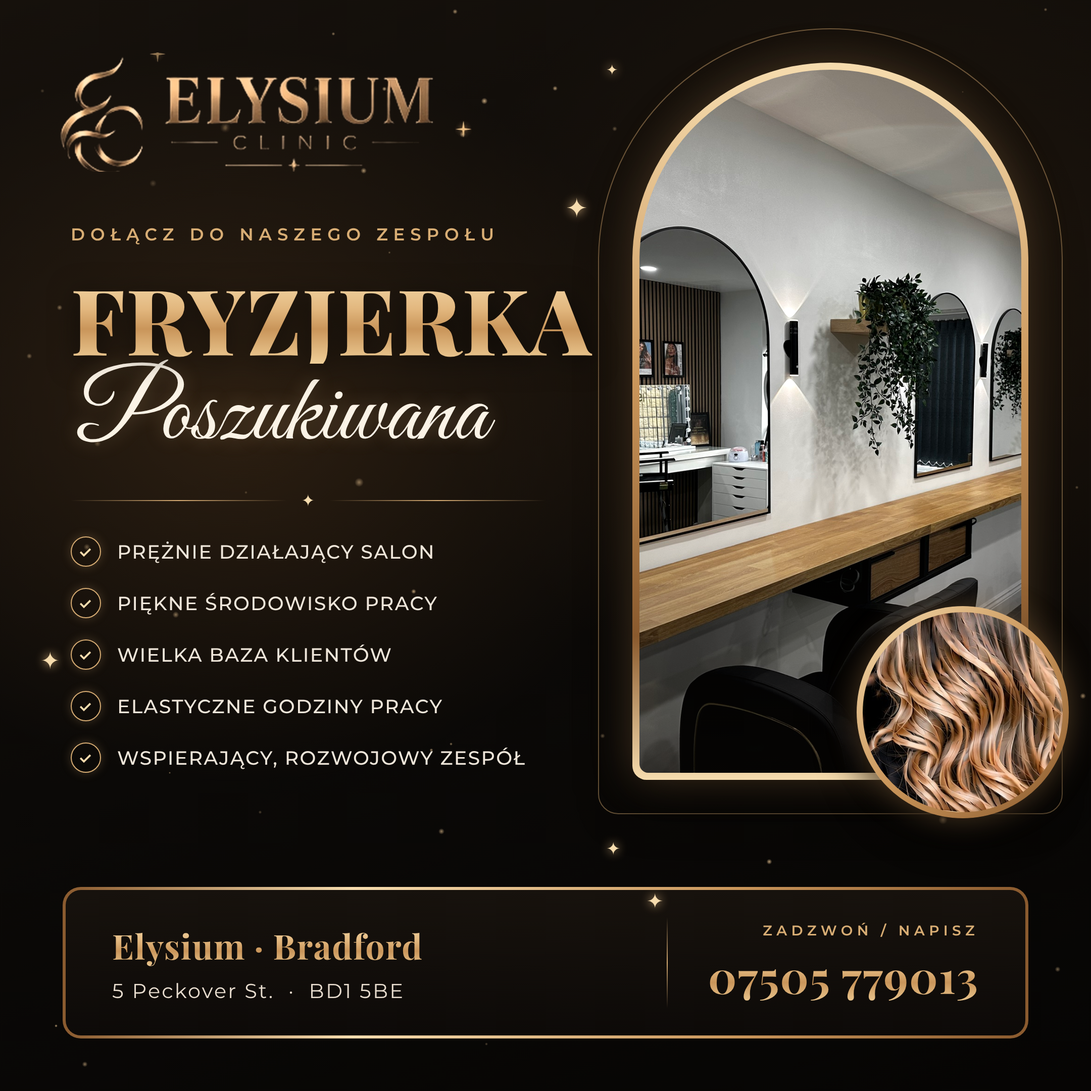
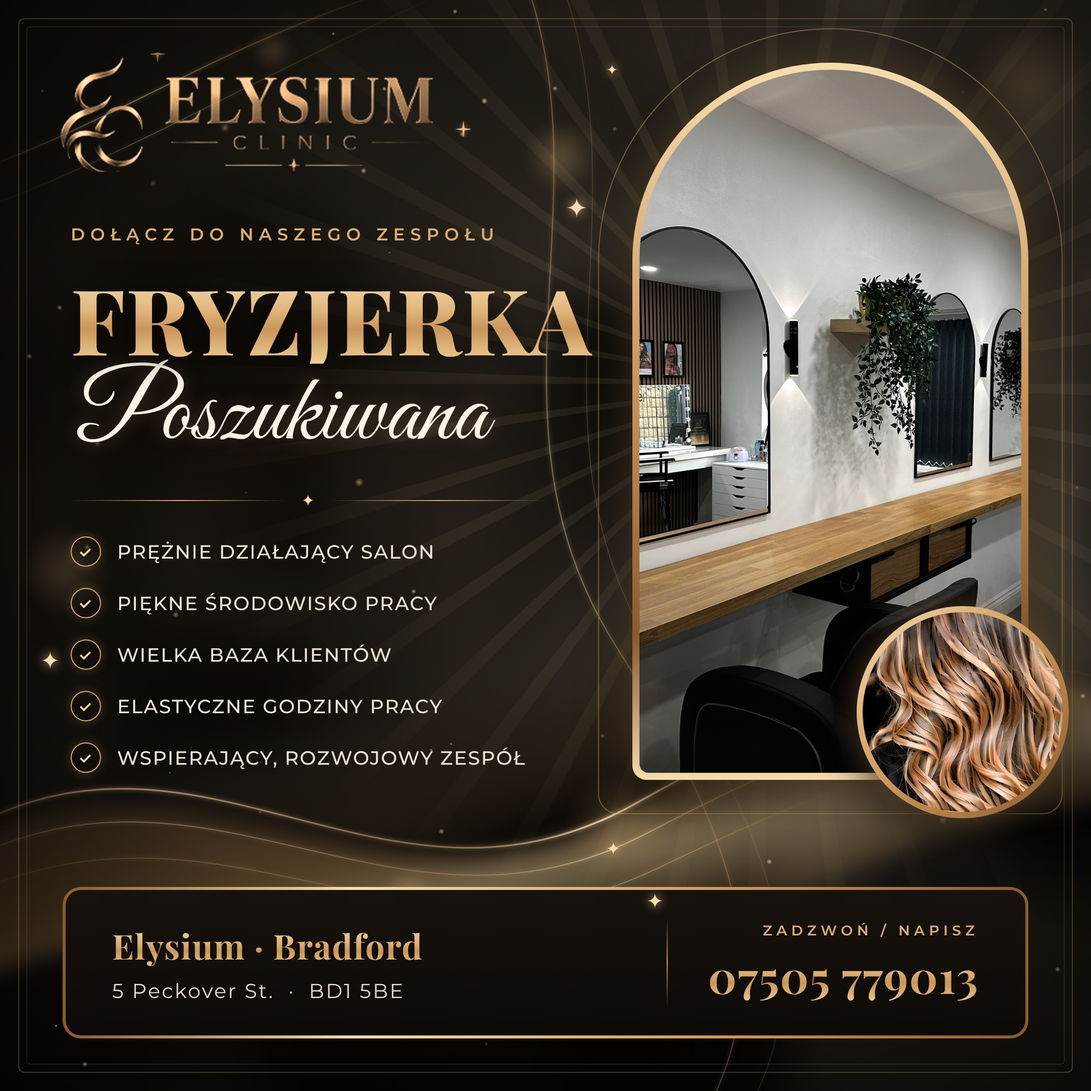
Richer background for Elysium hairdresser poster
Claude-Session: https://claude.ai/code/session_01SaUhS6TQiHZZVw3aAkmtTF

diff --git a/plakat_fryzjerka/poster.html b/plakat_fryzjerka/poster.html
@@ -11,6 +11,20 @@ html,body{width:1080px;height:1080px;background:#0b0907;overflow:hidden}
    radial-gradient(ellipse 700px 600px at 85% 30%, rgba(90,60,30,.22), transparent 70%),
    linear-gradient(160deg,#16110c 0%,#0b0907 55%,#060504 100%);
   font-family:Montserrat,sans-serif;color:#efe6da}
+
+.bg{position:absolute;inset:0;overflow:hidden}
+.bg .photo{position:absolute;inset:-60px;background:url(salon.jpg) 30% 50%/cover;filter:blur(26px) brightness(.42) sepia(.6) saturate(1.3);transform:scale(1.05)}
+.bg .tint{position:absolute;inset:0;background:
+  linear-gradient(90deg,rgba(8,6,4,.92) 0%,rgba(8,6,4,.72) 42%,rgba(8,6,4,.25) 100%),
+  radial-gradient(ellipse 520px 420px at 18% 42%,rgba(150,100,50,.22),transparent 70%)}
+.bg svg{position:absolute;inset:0}
+.bg .bokeh{position:absolute;border-radius:50%;filter:blur(6px);background:radial-gradient(circle,rgba(255,205,140,.55),rgba(255,190,120,.08) 60%,transparent 72%)}
+.bg .rays{position:absolute;left:758px;top:380px;width:1400px;height:1400px;margin:-700px 0 0 -700px;border-radius:50%;
+  background:repeating-conic-gradient(from 0deg,rgba(246,220,174,.10) 0deg 2deg,transparent 2deg 9deg);
+  -webkit-mask:radial-gradient(circle,#000 0,rgba(0,0,0,.6) 30%,transparent 62%);mask:radial-gradient(circle,#000 0,rgba(0,0,0,.6) 30%,transparent 62%)}
+.bg .vig{position:absolute;inset:0;background:radial-gradient(ellipse 85% 80% at 50% 45%,transparent 55%,rgba(0,0,0,.75) 100%)}
+.bg .deco{position:absolute;inset:18px;border:1px solid rgba(216,173,116,.28);border-radius:6px}
+.bg .deco::before{content:"";position:absolute;inset:7px;border:1px solid rgba(216,173,116,.12);border-radius:4px}
 .dust{position:absolute;border-radius:50%;background:radial-gradient(circle,rgba(255,215,160,.9),rgba(255,200,140,0) 70%)}
 .spark{position:absolute;color:var(--gold1);font-size:22px;text-shadow:0 0 10px rgba(255,210,150,.9)}
 .goldtext{background:linear-gradient(180deg,var(--gold1) 0%,#e2b77e 40%,var(--gold2) 62%,#f0cf98 100%);
@@ -58,6 +72,39 @@ li b{flex:none;width:30px;height:30px;border-radius:50%;border:1.5px solid var(-
 .contact .num{font-family:'Playfair Display',serif;font-weight:700;font-size:44px;margin-top:6px;letter-spacing:.02em}
 </style></head>
 <body><div class="poster" id="p">
+<div class="bg">
+  <div class="photo"></div><div class="tint"></div>
+  <svg viewBox="0 0 1080 1080" width="1080" height="1080">
+    <defs>
+      <linearGradient id="g1" x1="0" y1="1" x2="1" y2="0">
+        <stop offset="0" stop-color="#8a5a2e" stop-opacity="0"/><stop offset=".35" stop-color="#f6dcae" stop-opacity=".9"/>
+        <stop offset=".6" stop-color="#c9955a" stop-opacity=".7"/><stop offset="1" stop-color="#8a5a2e" stop-opacity="0"/></linearGradient>
+      <linearGradient id="r1" x1="0" y1="0" x2="1" y2="1">
+        <stop offset="0" stop-color="#3a2614" stop-opacity="0"/><stop offset=".45" stop-color="#b9864e" stop-opacity=".35"/>
+        <stop offset=".55" stop-color="#f3d39e" stop-opacity=".45"/><stop offset=".7" stop-color="#6b4422" stop-opacity=".25"/><stop offset="1" stop-color="#3a2614" stop-opacity="0"/></linearGradient>
+      <filter id="glow"><feGaussianBlur stdDeviation="2.2" result="b"/><feMerge><feMergeNode in="b"/><feMergeNode in="SourceGraphic"/></feMerge></filter>
+      <filter id="soft"><feGaussianBlur stdDeviation="10"/></filter>
+    </defs>
+    <!-- silk ribbon -->
+    <g transform="translate(0,-55)"><path d="M-60 900 C 180 760, 360 1000, 620 860 S 980 700, 1160 760 L 1160 860 C 960 820, 820 960, 600 990 S 160 930, -60 1040 Z" fill="url(#r1)" filter="url(#soft)"/>
+    <g fill="none" stroke="url(#g1)" filter="url(#glow)">
+      <path d="M-40 880 C 200 740, 380 990, 630 850 S 990 690, 1140 740" stroke-width="1.6"/>
+      <path d="M-40 910 C 210 780, 390 1010, 640 880 S 990 730, 1140 780" stroke-width="1" opacity=".7"/>
+      <path d="M-40 945 C 220 820, 400 1035, 650 915 S 990 775, 1140 820" stroke-width=".7" opacity=".5"/>
+      </g></g><g fill="none" stroke="url(#g1)" filter="url(#glow)"><path d="M-40 175 C 120 120, 220 40, 420 -20" stroke-width="1.2" opacity=".55"/>
+      <path d="M-40 215 C 140 150, 260 70, 470 -20" stroke-width=".7" opacity=".4"/>
+    <path d="M520 -20 C 600 200, 470 420, 610 640 S 760 980, 700 1100" stroke-width="1.1" opacity=".45"/>
+    <path d="M555 -20 C 640 210, 510 430, 650 650 S 800 990, 740 1100" stroke-width=".6" opacity=".3"/>
+    </g>
+  </svg>
+  <div class="bokeh" style="left:520px;top:120px;width:70px;height:70px;opacity:.5"></div>
+  <div class="bokeh" style="left:560px;top:760px;width:110px;height:110px;opacity:.35"></div>
+  <div class="bokeh" style="left:20px;top:520px;width:90px;height:90px;opacity:.3"></div>
+  <div class="bokeh" style="left:960px;top:20px;width:120px;height:120px;opacity:.35"></div>
+  <div class="bokeh" style="left:380px;top:860px;width:50px;height:50px;opacity:.5"></div>
+  <div class="bokeh" style="left:250px;top:30px;width:40px;height:40px;opacity:.4"></div>
+  <div class="rays"></div><div class="vig"></div><div class="deco"></div>
+</div>
   <div class="arch2"></div>
   <div class="arch"><div class="inner"><img src="salon.jpg"></div></div>
   <div class="hair"><img src="hair.png"></div>
@@ -94,7 +141,7 @@ li b{flex:none;width:30px;height:30px;border-radius:50%;border:1.5px solid var(-
 const p=document.getElementById('p');
 let s=7;const r=()=>{s=(s*9301+49297)%233280;return s/233280};
 for(let i=0;i<46;i++){const d=document.createElement('div');d.className='dust';const z=2+r()*7;
- d.style.cssText=`width:${z}px;height:${z}px;left:${r()*1080}px;top:${r()*1080}px;opacity:${.25+r()*.6}`;p.prepend(d)}
+ d.style.cssText=`width:${z}px;height:${z}px;left:${r()*1080}px;top:${r()*1080}px;opacity:${.25+r()*.6}`;document.querySelector('.bg').after(d)}
 [[600,60],[600,830],[640,880],[40,640],[560,190]].forEach(([x,y],i)=>{const e=document.createElement('div');e.className='spark';e.textContent='✦';
  e.style.cssText=`left:${x}px;top:${y}px;font-size:${14+i*3}px`;p.appendChild(e)});
 </script>
